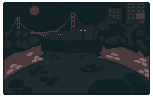
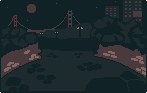
Add gameplay background

diff --git a/public/css/app.css b/public/css/app.css
@@ -172,7 +172,8 @@
   align-items: flex-start;
   width: 100%;
   min-height: 300px;
-  background: #C7EAE4;
+  background: lightblue url("/pic/Bkg-City-at-Night.png") no-repeat;
+  background-size: cover;
   border-bottom: 1px solid white;
 }
 .gameplay-top {
@@ -194,6 +195,17 @@
 .gameplay-score {
   font-size: 20px;
   margin: 10px 0px;
+  color: white;
+}
+.gameplay-mid {
+  display: flex;
+  justify-content: center;
+  width: 100%;
+}
+.event-button {
+  width: 100px;
+  height: 40px;
+  border-radius: 2px;
 }
 .gameplay-bottom {
   width: 100%;
@@ -215,6 +227,7 @@
   border: 1px solid white;
   background: white;
   margin: 1px 1px;
+  border-radius: 2px;
   /* background-color: #43E87A;
   color: white;
   box-shadow: 0 2px 2px 0 rgba(0,0,0,.14), 0 3px 1px -2px rgba(0,0,0,.2), 0 1px 5px 0 rgba(0,0,0,.12); */

diff --git a/src/components/game.jsx b/src/components/game.jsx
@@ -151,6 +151,9 @@ class Game extends Component {
             </div>
             <h1 className='gameplay-score'>Score: 9000</h1>
           </div>
+          <div className='gameplay-mid'>
+            <button className='event-button'>Event</button>
+          </div>
           <div className='gameplay-bottom'>
             <div className='resources'>
               <div className='resource'>

diff --git a/src/components/gmap.jsx b/src/components/gmap.jsx
@@ -20,6 +20,7 @@ class Gmap extends Component {
         pos.lng = position.coords.longitude;
 
         let GeoMarker = new window.GeolocationMarker(map);
+        GeoMarker.setCircleOptions({ visible: false });
 
         let posB = {
           lat: locationData[30].latitude,
